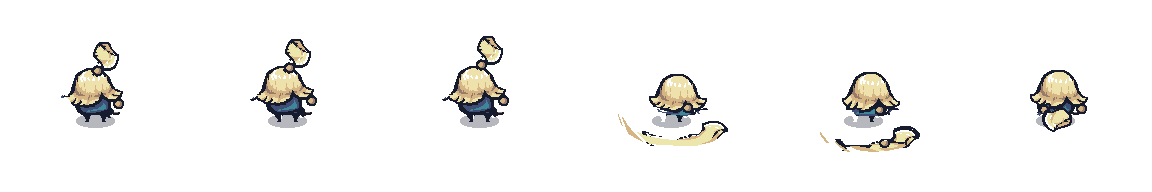
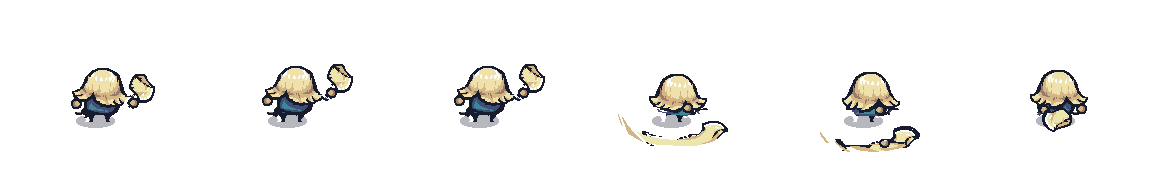
Old Pawn swings v3: shoulder wind-up for down, hammer arcs rebuilt on the axe arcs with the hammer head on the tip

Changed region(s): [[0.2188, 0.1875, 0.3125, 0.625], [0.0312, 0.2188, 0.1562, 0.6562], [0.375, 0.1875, 0.4688, 0.6562]]

diff --git a/games/pawnrun/tools/make_old_anims.py b/games/pawnrun/tools/make_old_anims.py
@@ -240,13 +240,17 @@ def with_outline(a, m):
     return m | (ndi.binary_dilation(m, structure=np.ones((3, 3)), iterations=2) & is_col(a, [NAVY]))
 
 
+def hammer_swoosh(a):
+    return box(a, 127, 175, 20, 150) | box(a, 100, 127, 20, 73)
+
+
 def tool_mask(weapon, k, a):
     """Every tool/swoosh/hand-on-tool pixel of side frame k (so what is left is his body)."""
     if weapon == "axe":
         m = tool_group(a) if k < 3 else outside_body(a) if k < 5 else tool_group(a, False)
     else:
-        m = (tool_group(a) if k < 3 else box(a, 124, 175, 58, 150) if k == 3 else
-             comp_right_of(a, 117) if k == 4 else box(a, 127, 175, 80, 112))
+        m = (tool_group(a) if k < 3 else hammer_swoosh(a) if k == 3 else
+             comp_right_of(a, 117) | box(a, 127, 175, 20, 150) if k == 4 else tool_group(a, False))
     return with_outline(a, m)
 
 
@@ -275,31 +279,71 @@ def to_arc(lay, weapon, up, ref, top=None, bottom=None, cx=96, dy=0):
     return xform(m, dx=sx, dy=sy + dy)
 
 
+def clean(lay, minpx=6):
+    """Drop specks: opaque blobs smaller than minpx pixels."""
+    m = lay[..., 3] == 255
+    lab, n = ndi.label(m, structure=np.ones((3, 3)))
+    keep = np.isin(lab, [i + 1 for i, z in enumerate(ndi.sum(m, lab, range(1, n + 1))) if z >= minpx])
+    return lay * keep[..., None]
+
+
+def fade(lay, x0):
+    """Right part of an arc with a slanted lower-left edge instead of a straight cut."""
+    ys, xs = np.mgrid[:F, :F]
+    ymid = np.where(lay[..., 3] == 255)[0].mean()
+    return lay * (xs + 1.2 * (ys - ymid) >= x0)[..., None]
+
+
 def frames_for(weapon, up, S):
     """[(pieces, behind_body)] for the 6 frames; pieces are full-frame layers."""
     L = lambda k: layer(S[k], tool_mask(weapon, k, S[k]))
-    group = [L(k) for k in range(3)]
-    smear, resid, rest = L(3), L(4), L(5)
-    arc = lambda lay, dy=0: to_arc(lay, weapon, up, smear, top=114, bottom=70, dy=dy)
-    trail = lambda dy: layer(arc(smear, dy), np.arange(F)[None, :] >= 100) if weapon == "axe" else np.zeros_like(smear)
-    if not up:                                         # front view: tool raised clear above the head, then down across his feet
-        gx0, gy0, gx1, gy1 = bbox(group[1][..., 3] == 255)
+    group = [clean(L(k)) if weapon == 'hammer' else L(k) for k in range(3)]
+    rest = L(5)
+    A = [side(sheet(), WEAPONS["axe"]["row"], c) for c in (3, 4)]      # the axe arcs are the template for both tools
+    smear, resid = (layer(a, tool_mask("axe", 3 + n, a)) for n, a in enumerate(A))
+    arc = lambda lay, dy=0: to_arc(lay, "axe", up, smear, top=114, bottom=70, dy=dy)
+    cut = lambda lay, x: (lay * (np.arange(F)[None, :, None] < x), lay * (np.arange(F)[None, :, None] >= x))
+    smear_t, smear_h = cut(smear, 142)
+    smear_t = smear_t * ~is_col(smear_t, [NAVY])[..., None]            # his hammer arc has no dark outline specks                                 # arc without its axe head / the axe head alone
+    resid_t, resid_h = cut(resid, 130)
+    mid = lambda lay: ((lambda b: ((b[0] + b[2]) // 2, (b[1] + b[3]) // 2))(bbox(lay[..., 3] == 255)))
+    trail = lambda dy, base: layer(arc(base, dy), np.arange(F)[None, :] >= 100)
+    if weapon == "axe":
+        hit = [smear, resid]
+        tails = [None, lambda dy: trail(dy, smear)]
+    else:                                                              # same arc, his hammer head on its tip instead of the axe head
+        head = layer(S[1], tool_group(S[1], False))
+        hb = bbox(head[..., 3] == 255)
+
+        def tip(arc_lay, ex=0):                        # the hammer head sits on the arc's end, centred on the arc's thickness there
+            ys, xs = np.where(arc_lay[..., 3] == 255)
+            x1 = xs.max()
+            yc = ys[xs >= x1 - 4].mean()
+            return xform(head, dx=x1 - 3 + ex - hb[0], dy=int(round(yc)) - (hb[1] + hb[3]) // 2)
+    if weapon == "hammer":
+        def under(a_lay):                              # the arc stops where the hammer head starts: nothing pokes out above it
+            hd = tip(a_lay)
+            return [clean(a_lay * (np.arange(F)[None, :, None] < bbox(hd[..., 3] == 255)[0] + 2)), hd]
+        h3 = lambda dy: under(arc(smear_t, dy))
+        h4 = lambda dy: under(clean(xform(fade(arc(smear_t, dy), 96), dx=6)))
+    else:
+        h3 = lambda dy: [arc(smear, dy)]
+        h4 = lambda dy: [trail(dy, smear), arc(resid, dy)]
+    home = xform(rest, flip="h", pivot=(96, 0), dx=-22, dy=-4) if weapon == "axe" else xform(rest, dx=-8, dy=4)
+    if not up:
         wind = []
-        for i in range(3):
-            g = xform(group[i], flip="h", pivot=(96, 0)) if weapon == "axe" else group[i]
-            x0, y0, x1, y1 = bbox(g[..., 3] == 255)
-            wind.append(([xform(g, dx=104 - (x0 + x1) // 2, dy=(76 - 3 * i) - y1)], False))
-        home = xform(rest, flip="h", pivot=(96, 0), dx=-22, dy=-4) if weapon == "axe" else xform(rest, dx=-8, dy=4)
-        return wind + [([arc(smear), hand_at(113, 108)], False), ([trail(5), arc(resid, 5), hand_at(113, 110)], False), ([home], False)]
+        for i in range(3):                             # cocked over his right shoulder, beside the head (axe: his side pose mirrored)
+            g = xform(group[i], flip="h", pivot=(97, 0)) if weapon == "axe" else group[i]
+            wind.append(([xform(g, dx=3)], False))
+        return wind + [(h3(0) + [hand_at(113, 108)], False), (h4(5) + [hand_at(113, 110)], False), ([home], False)]
     low = []
     for i in range(3):                                 # back view: tool low behind his shoulder, pulled back
-        g = xform(group[i], flip="v", pivot=(96, 96) if weapon == "hammer" else (96, 96))
+        g = group[i]
         if weapon == "axe":
-            g = xform(g, flip="h", pivot=(96, 0))
+            g = xform(xform(g, flip="v", pivot=(96, 96)), flip="h", pivot=(96, 0))
         x0, y0, x1, y1 = bbox(g[..., 3] == 255)
         low.append(([xform(g, dx=134 - (x0 + x1) // 2 + i, dy=(110 + 2 * i) - (y0 + y1) // 2)], True))
-    home = xform(rest, flip="h", pivot=(96, 0), dx=-22, dy=-4) if weapon == "axe" else xform(rest, dx=-8, dy=4)
-    return low + [([arc(smear), hand_at(110, 74)], True), ([trail(-5), arc(resid, -5), hand_at(110, 76)], True), ([low[0][0][0]], True)]
+    return low + [(h3(0) + [hand_at(110, 74)], True), (h4(-5) + [hand_at(110, 76)], True), ([low[0][0][0]], True)]
 
 
 def swing(weapon, direction):
@@ -310,6 +354,8 @@ def swing(weapon, direction):
     for k, (pieces, behind) in enumerate(frames_for(weapon, up, S)):
         f = shadow.copy()
         body = side_body(S[k], k, weapon, "back" if up else "front")
+        if weapon == "axe" and not up and k < 3:
+            body = xform(body, flip="h", pivot=(97, 0))
         for lay in (pieces + [body] if behind else [body] + pieces):
             m = lay[..., 3] == 255
             f[m] = lay[m]
